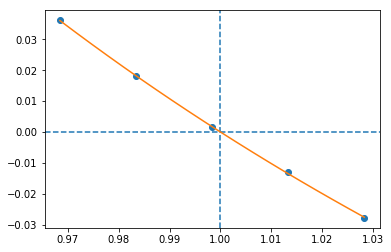
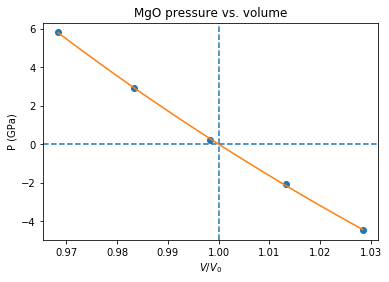
Docs from notebook - checked

diff --git a/docs/source/lib-usage.rst b/docs/source/lib-usage.rst
@@ -1,13 +1,16 @@
 
+Library usage
+=============
+
 Simple Parallel Calculation
 ---------------------------
 
 Once you have everything installed and running you can run your first
-real calculation. The testing code at the end of the parcalc.py may be
-used as an example how to do it. The first step is to import the modules
-to your program (the examples here use VASP calculator)::
+real calculation. The first step is to import the modules to your
+program (the examples here use VASP calculator)
 
-.. code:: python
+.. code:: ipython3
+
     from ase.spacegroup import crystal
     from parcalc import ClusterVasp, ParCalculate
     from elastic import get_pressure, BMEOS, get_strain
@@ -16,9 +19,10 @@ to your program (the examples here use VASP calculator)::
     import numpy
     import matplotlib.pyplot as plt
 
-next we need to create the crystal, MgO in this case::
+next we need to create our example MgO crystal:
 
-.. code-block:: python
+.. code:: ipython3
+
     a = 4.194
     cryst = crystal(['Mg', 'O'], 
                     [(0, 0, 0), (0.5, 0.5, 0.5)], 
@@ -28,9 +32,9 @@ next we need to create the crystal, MgO in this case::
 We need a calculator for our job, here we use VASP and ClusterVasp
 defined in the parcalc module. You can probably replace this calculator
 by any other ASE calculator but this was not tested yet. Thus let us
-define the calculator::
+define the calculator:
 
-.. code:: python
+.. code:: ipython3
 
     # Create the calculator running on one, eight-core node.
     # This is specific to the setup on my cluster.
@@ -50,9 +54,9 @@ define the calculator::
     calc.set(isif=3)
 
 Finally, run our first calculation. Obtain relaxed structure and
-residual pressure after optimization::
+residual pressure after optimization:
 
-.. code:: python
+.. code:: ipython3
 
     print("Residual pressure: %.3f bar" % (
             get_pressure(cryst.get_stress())))
@@ -70,7 +74,7 @@ demonstrate the ability to run several calculations in parallel - if you
 have a cluster of machines at your disposal this will speed up the
 calculation considerably.
 
-.. code:: python
+.. code:: ipython3
 
     # Lets extract optimized lattice constant.
     # MgO is cubic so a is a first diagonal element of lattice matrix
@@ -133,9 +137,9 @@ parameters):
 
 Now we repeat the setup and optimization procedure from the example 1
 above but using a new Crystal class (see above we skip this part for
-brevity). Then comes a new part (IDOF - Internal Degrees of Freedom)::
+brevity). Then comes a new part (IDOF - Internal Degrees of Freedom):
 
-.. code:: python
+.. code:: ipython3
 
     # Switch to cell shape+IDOF optimizer
     calc.set(isif=4)
@@ -148,7 +152,7 @@ brevity). Then comes a new part (IDOF - Internal Degrees of Freedom)::
     res=ParCalculate(deform,calc)
     
     # Post-process the results
-    fit=get_BM_EOS(cryst, data=res)
+    fit=get_BM_EOS(cryst, systems=res)
     
     # Get the P(V) data points just calculated
     pv=numpy.array(cryst.pv)
@@ -163,7 +167,7 @@ brevity). Then comes a new part (IDOF - Internal Degrees of Freedom)::
     v0=fit[0]
     
     # B-M EOS for plotting
-    fitfunc = lambda p, x: [BMEOS(xv,p[0],p[1],p[2]) for xv in x]
+    fitfunc = lambda p, x: numpy.array([BMEOS(xv,p[0],p[1],p[2]) for xv in x])
     
     # Ranges - the ordering in pv is not guarateed at all!
     # In fact it may be purely random.
@@ -173,7 +177,7 @@ brevity). Then comes a new part (IDOF - Internal Degrees of Freedom)::
     
     # Plot the P(V) curves and points for the crystal
     # Plot the points
-    plt.plot(pv[:,0]/v0,pv[:,1],'o')
+    plt.plot(pv[:,0]/v0,pv[:,1]/units.GPa,'o')
     
     # Mark the center P=0 V=V0
     plt.axvline(1,ls='--')
@@ -181,7 +185,10 @@ brevity). Then comes a new part (IDOF - Internal Degrees of Freedom)::
     
     # Plot the fitted B-M EOS through the points
     xa=numpy.linspace(x[0],x[-1],20)
-    plt.plot(xa/v0,fitfunc(fit,xa),'-')
+    plt.plot(xa/v0,fitfunc(fit,xa)/units.GPa,'-')
+    plt.title('MgO pressure vs. volume')
+    plt.xlabel('$V/V_0$')
+    plt.ylabel('P (GPa)')
     plt.show()
 
 
@@ -206,8 +213,6 @@ printed out in the output close to:
       B'_0 = 4.3  \quad
       a_0 = 4.1936 \text{ A}
 
-The pressure dependence on volume in MgO crystal (example2.py).
-
 Calculation of the elastic tensor
 ---------------------------------
 
@@ -215,9 +220,9 @@ Finally let us calculate an elastic tensor for the same simple cubic
 crystal - magnesium oxide (MgO). For this we need to create the crystal
 and optimize its structure (see :ref:``parcalc`` above). Once we have an
 optimized structure we can switch the calculator to internal degrees of
-freedom optimization (IDOF) and calculate the elastic tensor::
+freedom optimization (IDOF) and calculate the elastic tensor:
 
-.. code:: python
+.. code:: ipython3
 
     # Switch to IDOF optimizer
     calc.set(isif=2)
@@ -236,16 +241,16 @@ freedom optimization (IDOF) and calculate the elastic tensor::
 .. parsed-literal::
 
     Workers started: 10
-    Cij (GPa): [ 338.4689633   103.64333973  152.21575456]
+    Cij (GPa): [ 338.46920873  103.64248824  152.21479687]
 
 
 To make sure we are getting the correct answer let us make the
 calculation for :math:`C_{11}, C_{12}` by hand. We will deform the cell
 along a (x) axis by +/-0.2% and fit the :math:`3^{rd}` order polynomial
 to the stress-strain data. The linear component of the fit is the
-element of the elastic tensor::
+element of the elastic tensor:
 
-.. code:: python
+.. code:: ipython3
 
     from elastic.elastic import get_cart_deformed_cell
     
@@ -266,8 +271,18 @@ element of the elastic tensor::
     mi=(lo+hi)/2
     wi=(hi-lo)/2
     xa=numpy.linspace(mi-1.1*wi,mi+1.1*wi, 50)
-    plt.plot(ss[:,0,0],ss[:,1,0],'k.')
-    plt.plot(ss[:,0,0],ss[:,1,1],'r.')
+
+
+.. parsed-literal::
+
+    Workers started: 10
+
+
+.. code:: ipython3
+
+    # Make a plot
+    plt.plot(ss[:,0,0],ss[:,1,0]/units.GPa,'.')
+    plt.plot(ss[:,0,0],ss[:,1,1]/units.GPa,'.')
     
     plt.axvline(0,ls='--')
     plt.axhline(0,ls='--')
@@ -278,15 +293,18 @@ element of the elastic tensor::
     c11=f[-2]/units.GPa
     
     # Plot the fitted function
-    plt.plot(xa,numpy.polyval(f,xa),'b-')
+    plt.plot(xa,numpy.polyval(f,xa)/units.GPa,'-', label='$C_{11}$')
     
     # C12 component
     f=numpy.polyfit(ss[:,0,0],ss[:,1,1],3)
     c12=f[-2]/units.GPa
     
     # Plot the fitted function
-    plt.plot(xa,numpy.polyval(f,xa),'g-')
-    
+    plt.plot(xa,numpy.polyval(f,xa)/units.GPa,'-', label='$C_{12}$')
+    plt.xlabel('Relative strain')
+    plt.ylabel('Stress componnent (GPa)')
+    plt.title('MgO, strain-stress relation ($C_{11}, C_{12}$)')
+    plt.legend(loc='best')
     # Here are the results. They should agree with the results
     # of the internal routine.
     print('C11 = %.3f GPa, C12 = %.3f GPa => K= %.3f GPa' % (
@@ -297,23 +315,25 @@ element of the elastic tensor::
 
 .. parsed-literal::
 
-    Workers started: 10
-    C11 = 325.004 GPa, C12 = 102.439 GPa => K= 176.628 GPa
+    C11 = 325.003 GPa, C12 = 102.440 GPa => K= 176.628 GPa
 
 
 
-.. image:: lib-usage_files/lib-usage_17_1.png
+.. image:: lib-usage_files/lib-usage_18_1.png
 
-
-The pressure dependence on volume in MgO crystal (example3.py).
 
 If you set up everything correctly you should obtain fitted parameters
 printed out in the output close to:
 
-:math:`C_{ij}` (GPa): [ 319.1067 88.8528 139.35852632]
+::
+
+    Cij (GPa): [ 340   100   180]
 
 With the following result of fitting:
 
 ::
 
-    $C_{11}$ = 317.958 GPa, $C_{12}$ = 68.878 GPa => K= 151.905 GPa
+    C11 = 325 GPa, C12 = 100 GPa => K= 180 GPa
+
+The actual numbers depend on the details of the calculations setup but
+should be fairly close to the above results.
